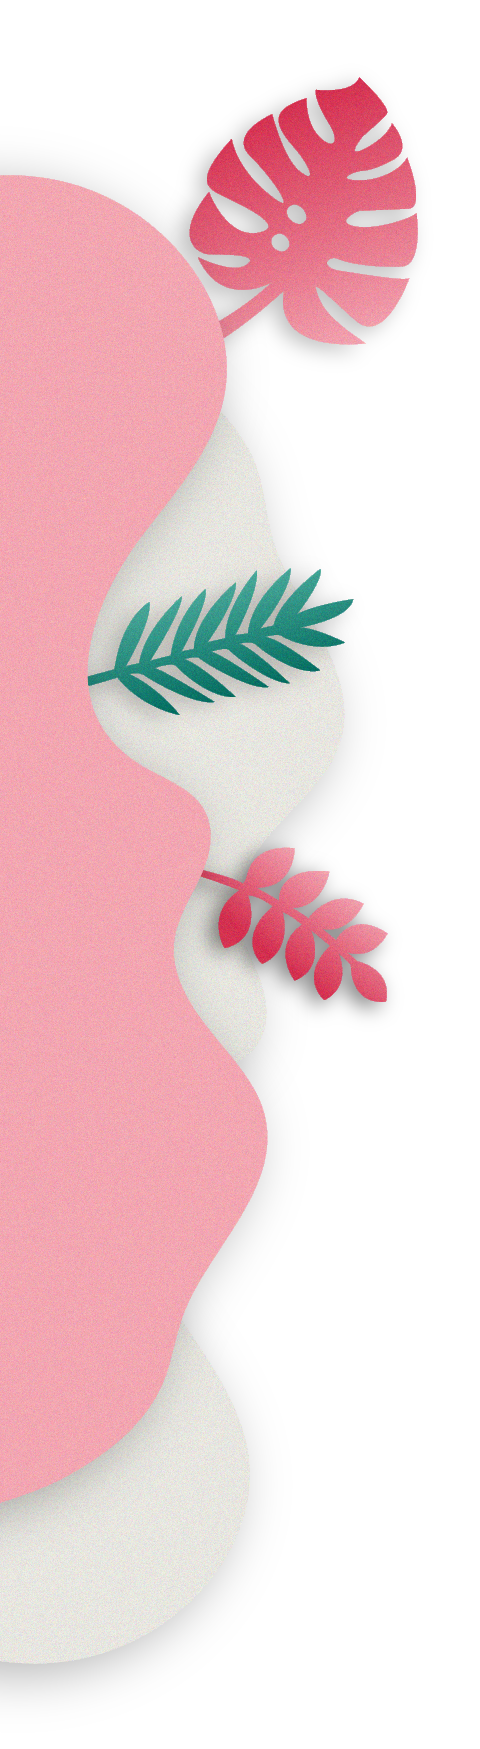
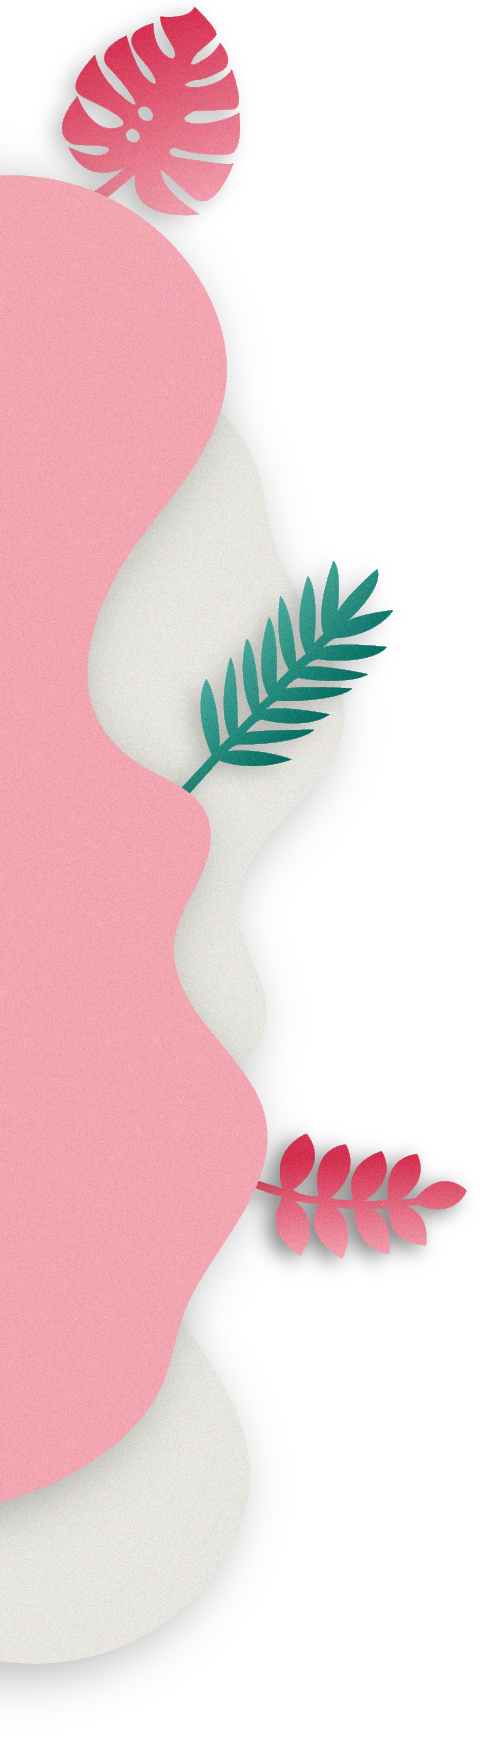
Content Splash page

Changed region(s): [[0.0938, 0.0, 0.875, 0.2161], [0.1875, 0.3087, 0.8125, 0.5866], [0.5312, 0.6484, 0.9688, 0.741]]

diff --git a/src/containers/Home/Home.js b/src/containers/Home/Home.js
@@ -59,11 +59,11 @@ const Landing = () => {
                 <h1 className={style.title}><span className={style.title_span}>Liefde</span>, zoals het eerst was.</h1>
                 <p className={`${style.text} ${style.text_intro}`}>Ga terug naar de <span className={style.text_bold}>roots</span> van jullie <span className={style.text_bold}>huwelijksreis</span> en vindt de liefde tussen jullie opnieuw! Bewonder en ontdek, maar bovenal <span className={style.text_bold}>geniet van elkaar</span> op deze <span className={style.text_bold}>jubileumreis</span> die speciaal voor jullie wordt gemaakt! </p>
                 <NavLink exact strict to="/form">
-                  <a className={style.button}>Wij zijn er klaar voor</a>
+                  <p className={style.button}>Wij zijn er klaar voor</p>
                 </NavLink>
               </article>
               <div className={style.header_image}>
-                <img className={style.image_pic} src="/assets/images/polaroid_test.png"/>
+                <img className={style.image_pic} src="/assets/images/splash_polaroid.png" alt="maried couple"/>
               </div>
             </div>
             <div className={style.header_more}>
@@ -73,6 +73,7 @@ const Landing = () => {
           </div>
         </div>
       </div>
+      <div className="about">
       <div className="background_about">
         <div className={style.about}>
             <div className={style.about_header}>
@@ -81,22 +82,21 @@ const Landing = () => {
             </div>
             <div className={style.about_parts}>
               <div className={`${style.about_part} ${style.part_left}`}>
-                <h1 className={style.about_title}>Halo! <span className={style.title_span}>Liefde!</span></h1>
+                <h1 className={style.about_title}>Halo! <span className={style.title_span}>Avontuur!</span></h1>
                 <div className={style.about_subtitle}>
                   <div className={style.subtitle_line}></div>
-                  <p className={style.subtitle_text}>"Liefde wordt beter met de tijd"</p>
-                </div>
-                <p className={style.text}>Ga <span className={style.text_bold}>terug in de tijd </span> toen jullie elkaar net leerde kennen. De vonken spatten er vanaf en de  <span className={style.text_bold}>kriebels in de buik</span> waren enorm. Liefde gaat <span className={style.text_bold}>normaal voelen</span> naarmate de tijd. Het wordt dus tijd om dit te veranderen! Op deze reis wordt <span className={style.text_bold}>de vlam weer als toen! </span></p>
-              </div>
-              <div className={`${style.about_part} ${style.part_right}`}>
-                <h1 className={style.about_title}>Halo! <span className={style.title_span}>Avontuur!</span></h1>
-                <div className={`${style.about_subtitle} ${style.subtitle_right}`}>
-                  <div className={style.subtitle_line}></div>
-                  <p className={`${style.subtitle_text} ${style.text_right}`}>“Liefde is gemaakt om een avontuur te zijn!” </p>
+                  <p className={style.subtitle_text}>"Liefde is gemaakt om een avontuur te zijn."</p>
                 </div>
                 <p className={style.text}>Jullie bepalen dit avontuur. Een <span className={style.text_bold}>ontspannende</span> date? De <span className={style.text_bold}>cultuur</span> leren kennen?
                  Of juist een <span className={style.text_bold}>spannende</span> date? Wij zorgen dat het inorde komt.
-                 <span className={style.text_bold}> Verleg jullie grenzen </span>en zorg ervoor dat dit een avontuur wordt dat jullie<span className={style.text_bold}> nooit meer zullen vergeten! </span></p>
+                 <span className={style.text_bold}> Verleg jullie grenzen </span>en zorg ervoor dat dit een avontuur wordt dat jullie<span className={style.text_bold}> nooit meer zullen vergeten! </span></p>              </div>
+              <div className={`${style.about_part} ${style.part_right}`}>
+                <h1 className={style.about_title}>Halo! <span className={style.title_span}>Liefde!</span></h1>
+                <div className={`${style.about_subtitle} ${style.subtitle_right}`}>
+                  <div className={style.subtitle_line}></div>
+                  <p className={`${style.subtitle_text} ${style.text_right}`}>“Liefde wordt beter met de tijd” </p>
+                </div>
+                 <p className={style.text}>Ga <span className={style.text_bold}>terug in de tijd </span> toen jullie elkaar net leerde kennen. De vonken spatten er vanaf en de  <span className={style.text_bold}>kriebels in de buik</span> waren enorm. Liefde gaat <span className={style.text_bold}>normaal voelen</span> naarmate de tijd. Het wordt dus tijd om dit te veranderen! Op deze reis wordt <span className={style.text_bold}>de vlam weer als toen! </span></p>
               </div>
               <div className={`${style.about_part} ${style.part_left}`}>
                 <h1 className={style.about_title}>Halo! <span className={style.title_span}>Locatie!</span></h1>
@@ -109,9 +109,11 @@ const Landing = () => {
             </div>
             <div className={style.about_button}>
               <NavLink exact strict to="/form">
-                <a className={`${style.button} ${style.button_center}`}>Boek jullie ervaring</a>
+                <p className={`${style.button} ${style.button_center}`}>Boek jullie ervaring</p>
               </NavLink>
             </div>
+          </div>
+          <div className={style.about_div}></div>
         </div>
       </div>
     </>

diff --git a/src/containers/Booking/Booking.js b/src/containers/Booking/Booking.js
@@ -1,7 +1,5 @@
 import React from "react";
 import { useStores } from "../../hooks/index";
-import * as firebase from "firebase/app";
-import 'firebase/storage';
 import style from "./booking.module.css";
 import { useHistory } from "react-router-dom";
 import {ROUTES} from "../../consts/index";
@@ -12,34 +10,11 @@ const Booking = () => {
   const type = typeStore.getTypeById(currentBooking.typeId);
   const country = countryStore.getCountryById(currentBooking.countryId);
   console.log(currentBooking);
-  const storageRef = firebase.storage().ref();
   const history = useHistory();
 
   const handleClick = () => {
     history.push(ROUTES.home)
   }
-
-  //RESIZE IMG CODE:
-  /* let n = 4;
-  const extension = currentBooking.img.substring(currentBooking.img.length - n);
-  const newImage = currentBooking.img.slice(0, -4);
-  console.log(newImage);
-  console.log(extension);
-
-  storageRef.child('images/' + newImage + '_400x300' + extension).getDownloadURL().then(function(url){
-    console.log(url);
-    var img = document.getElementById('img');
-    img.src = url;
-  });
-  */
-
-  /*
-  storageRef.child('images/' + currentBooking.img).getDownloadURL().then(function(url){
-    console.log(url);
-    var img = document.getElementById('img');
-    img.src = url;
-  });
-  */
 
   return (
     <div className="booking">

diff --git a/src/index.css b/src/index.css
@@ -184,7 +184,6 @@ html {
   height: 100% !important;
 }
 
-
 .webp .login {
   display: grid;
   grid-template-rows: 1fr 80% 1fr;
@@ -213,11 +212,27 @@ html {
   background-position: left, right top, right bottom;
 }
 
-.webp .background_about {
-  background-image: url(/assets/backgrounds/desktop_about_left.webp);
+.webp .about {
+  background-image: url(/assets/backgrounds/desktop_about_location.webp);
   background-repeat: no-repeat;
-  background-size: auto 100%;
-  background-position: left;
+  background-size: 100% 100%;
+  background-position: bottom;
+  height: 100% !important;
+}
+
+.no-webp .about {
+  background-image: url(/assets/backgrounds/desktop_about_location.png);
+  background-repeat: no-repeat;
+  background-size: 100% 100%;
+  background-position: bottom;
+  height: 100% !important;
+}
+
+.webp .background_about {
+  background-image: url(/assets/backgrounds/desktop_about_left.webp), url(/assets/backgrounds/desktop_about_wedding.webp);
+  background-repeat: no-repeat;
+  background-size: auto 100%, 30% auto;
+  background-position: left, right 55%;
   height: 100% !important;
 }
 

diff --git a/src/components/Step6/Step6.js b/src/components/Step6/Step6.js
@@ -36,7 +36,7 @@ const Step6 = ({img, setImg, setCurrentIndex}) => {
           onChange = {e => {setImg(e.target.files[0]); handleInput(e)}}/>
           <div className={style.polaroid_container}>
             <img id = "id_img" className = {style.polaroid_image} src = "" alt = ""/>
-            <img className={style.content_polaroid} src="/assets/images/polaroid.png" />
+            <img className={style.content_polaroid} src="/assets/images/polaroid.png" alt="polaroid" />
             <svg className={style.polaroid_add} width="57" height="57" viewBox="0 0 57 57" fill="none" xmlns="http://www.w3.org/2000/svg">
               <line x1="31.8505" y1="2.75311" x2="26.3944" y2="53.4604" stroke="#424242" strokeWidth="5" strokeLinecap="round"/>
               <line x1="53.9256" y1="31.2787" x2="3.2183" y2="25.8226" stroke="#424242" strokeWidth="5" strokeLinecap="round"/>

diff --git a/src/containers/Home/home.module.css b/src/containers/Home/home.module.css
@@ -137,6 +137,10 @@
     margin-top: 5rem;
 }
 
+.about_div {
+    height: 50rem;
+}
+
 .about_title {
     composes: title from "../../style/typo.module.css";
     margin-bottom: 1rem;
@@ -174,7 +178,7 @@
 }
 
 .about_part {
-    margin: 7rem 0;
+    margin: 5rem 0;
     width: 65%;
 }
 
